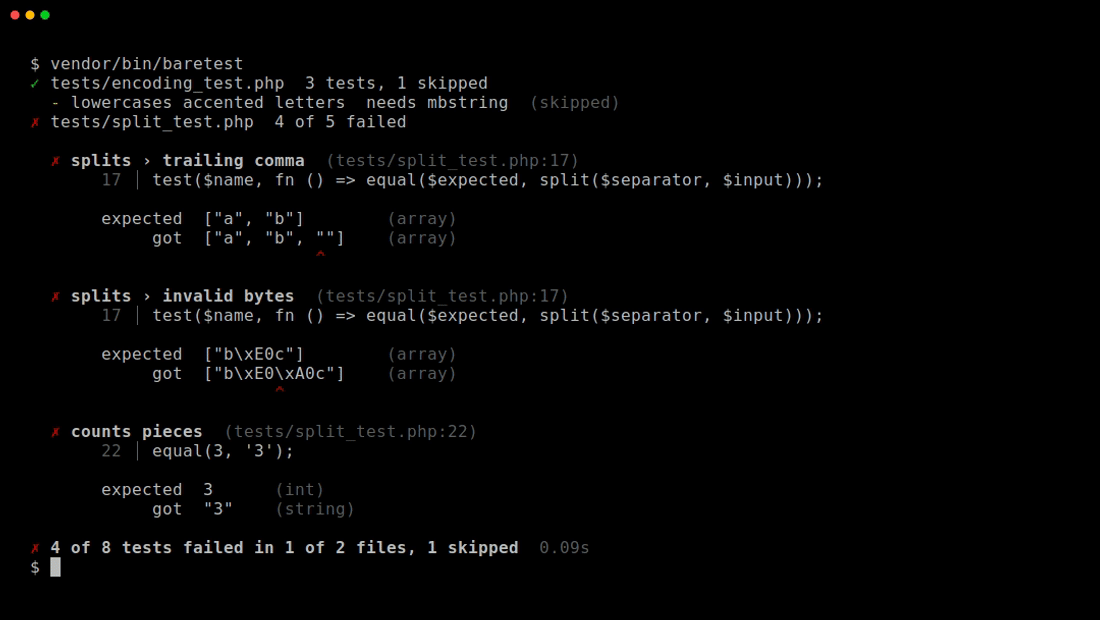
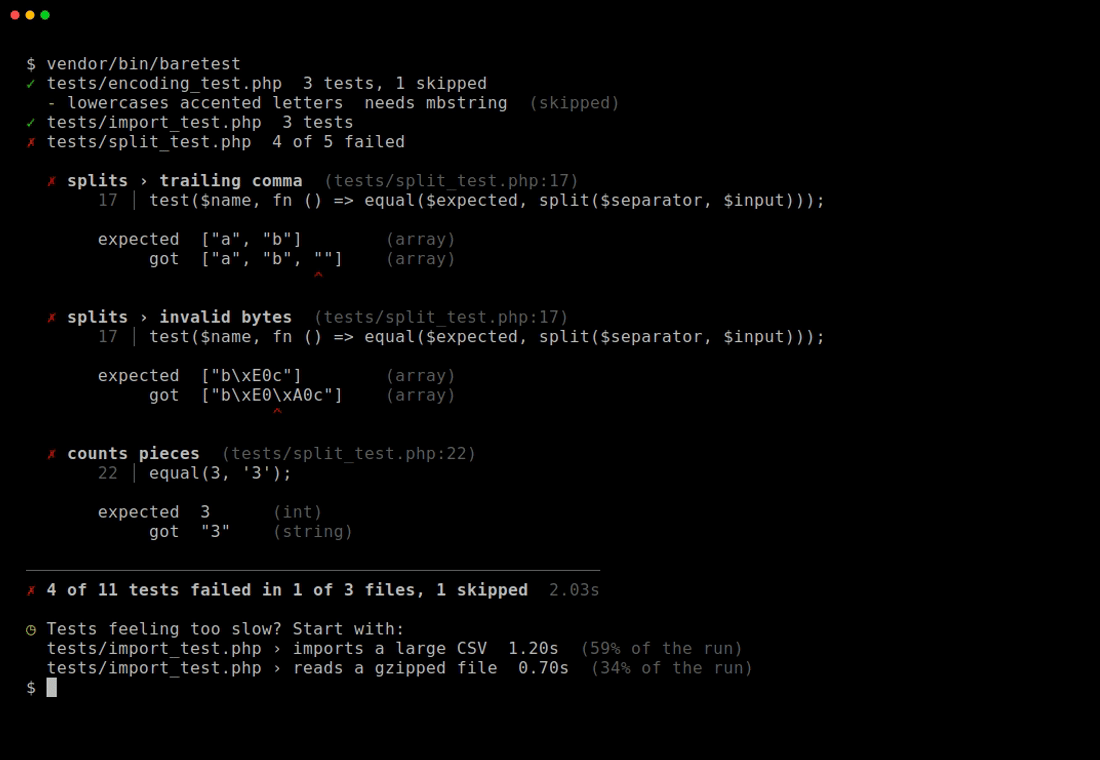
Show the slow tests in the README screenshot

diff --git a/docs/import_test.php b/docs/import_test.php
@@ -1,0 +1,13 @@
+<?php
+
+use function Baretest\{test, equal};
+
+test('imports a large CSV', function () {
+    usleep(1200000);
+    equal(10000, 10000);
+});
+test('skips the header row', fn () => equal(1, 1));
+test('reads a gzipped file', function () {
+    usleep(700000);
+    equal(1, 1);
+});
